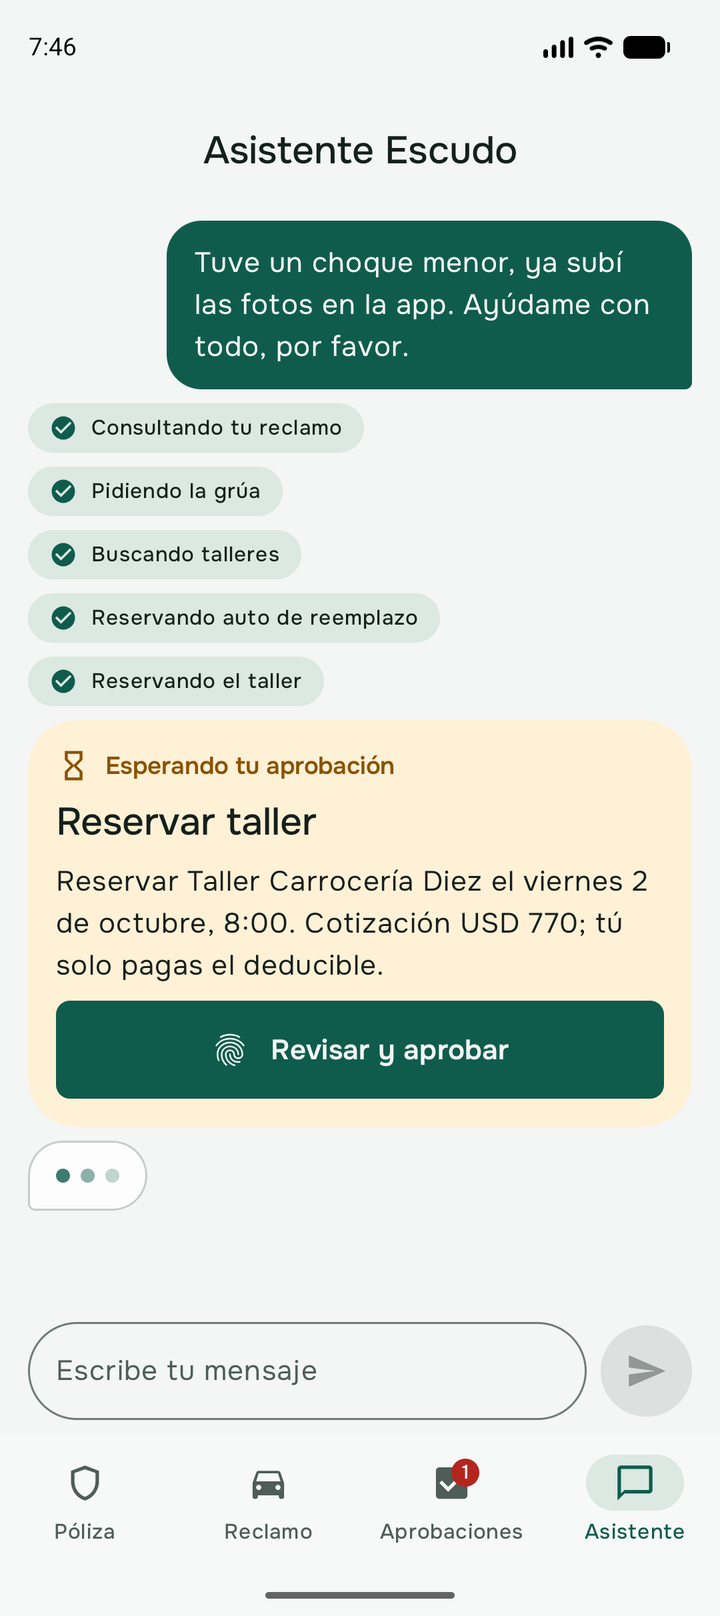
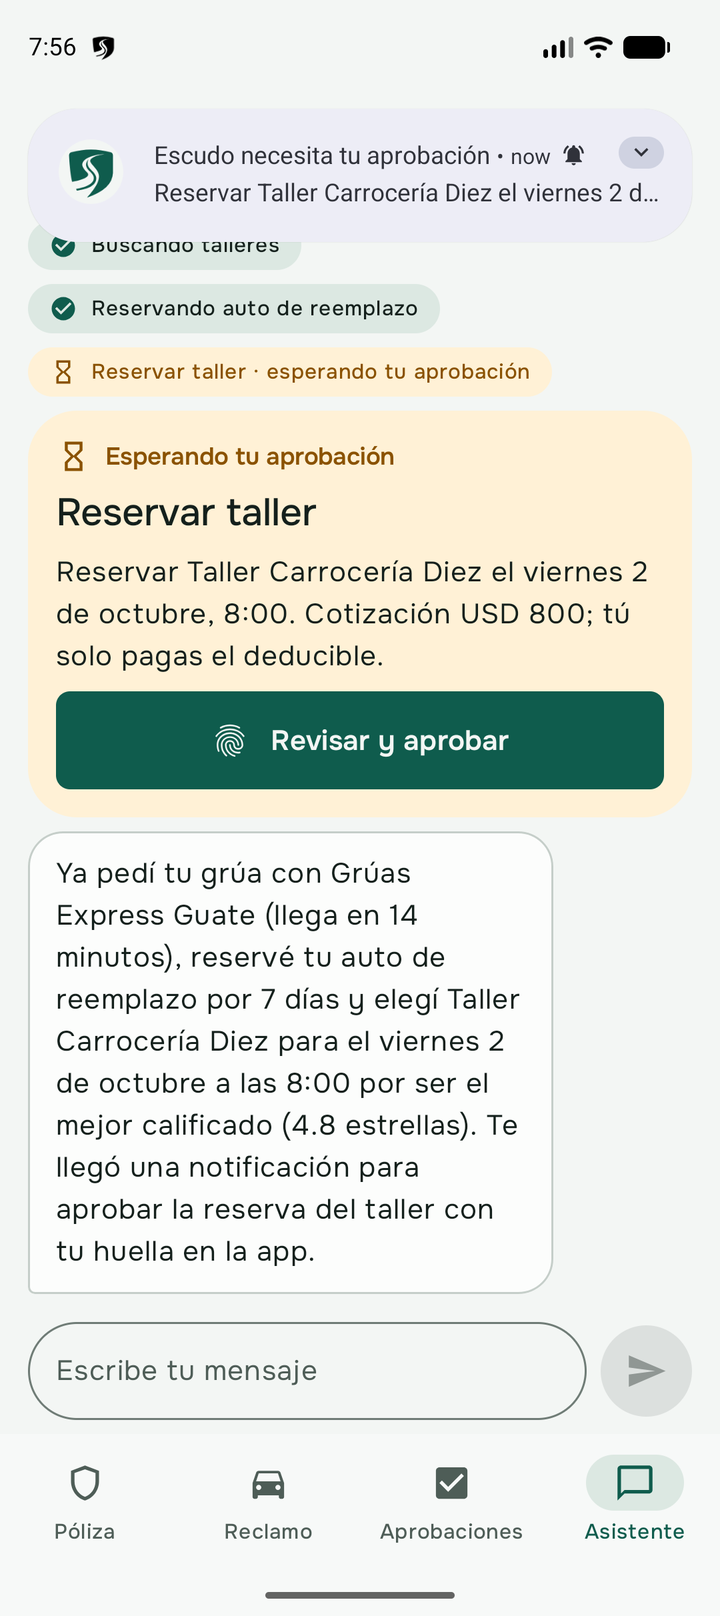
android: chat approval pause is honest — paused tool chip waits in amber until the approved retry succeeds; no typing dots while waiting

diff --git a/android/app/src/main/kotlin/app/escudo/android/ui/assistant/ChatState.kt b/android/app/src/main/kotlin/app/escudo/android/ui/assistant/ChatState.kt
@@ -11,8 +11,14 @@ sealed interface ChatItem {
   /** [streaming] while deltas arrive; the final frame replaces the text. */
   data class Assistant(override val key: String, val text: String, val streaming: Boolean) : ChatItem
 
-  /** Inline chip: what the assistant is doing ("Buscando talleres…"); [done] once the tool answered. */
-  data class Tool(override val key: String, val tool: String, val done: Boolean) : ChatItem
+  /**
+   * Inline chip: what the assistant is doing ("Buscando talleres…"). A gated tool that answered
+   * `pending_approval` did NOT happen: it stays [Status.WAITING] until the approved retry succeeds.
+   */
+  data class Tool(override val key: String, val tool: String, val status: Status) : ChatItem {
+    enum class Status { RUNNING, WAITING, DONE, NOT_DONE }
+    val active: Boolean get() = status == Status.RUNNING || status == Status.WAITING
+  }
 
   /** Inline approval pause; [status] pending → approved/rejected when the customer decides. */
   data class Approval(
@@ -43,6 +49,10 @@ data class ChatState(
   val pendingApprovalId: String?
     get() = items.lastOrNull { it is ChatItem.Approval && it.status == ChatItem.Approval.Status.PENDING }
       ?.let { (it as ChatItem.Approval).approvalId }
+
+  /** Typing dots only while the agent is actually working, never while it waits for the human. */
+  val showTyping: Boolean
+    get() = thinking && pendingApprovalId == null && (items.lastOrNull() as? ChatItem.Assistant)?.streaming != true
 }
 
 /**
@@ -67,39 +77,52 @@ object ChatReducer {
     is ChatEvent.Text -> state.copy(items = state.items.withAssistantText(event, key), thinking = !event.final || state.thinking)
     // The server may repeat a tool_call for the same running tool (seen on the deployed backend):
     // one chip per running tool, not per frame.
+    // A retry after approval reuses the waiting chip, which now runs again.
     is ChatEvent.ToolCall ->
-      if (state.items.any { it is ChatItem.Tool && it.tool == event.name && !it.done }) {
+      if (state.items.any { it is ChatItem.Tool && it.tool == event.name && it.status == ChatItem.Tool.Status.RUNNING }) {
         state.copy(thinking = true)
+      } else if (state.items.any { it is ChatItem.Tool && it.tool == event.name && it.status == ChatItem.Tool.Status.WAITING }) {
+        state.copy(items = state.items.updateTool(event.name, ChatItem.Tool.Status.WAITING, ChatItem.Tool.Status.RUNNING), thinking = true)
       } else {
-        state.copy(items = state.items + ChatItem.Tool(key, event.name, done = false), thinking = true)
+        state.copy(items = state.items + ChatItem.Tool(key, event.name, ChatItem.Tool.Status.RUNNING), thinking = true)
       }
+    // A gated tool's first answer is "pending_approval": approval_required (which follows it)
+    // turns that chip back into WAITING, so the result alone never claims the action happened.
     is ChatEvent.ToolResult -> state.copy(
-      items = state.items.map { if (it is ChatItem.Tool && it.tool == event.name && !it.done) it.copy(done = true) else it },
+      items = state.items.updateTool(event.name, ChatItem.Tool.Status.RUNNING, ChatItem.Tool.Status.DONE),
     )
     is ChatEvent.ApprovalRequired ->
       if (state.items.any { it is ChatItem.Approval && it.approvalId == event.approvalId }) {
         state
       } else {
-        state.copy(items = state.items + ChatItem.Approval(key, event.approvalId, event.tool, event.summary ?: event.reason, ChatItem.Approval.Status.PENDING))
+        val paused = state.items.updateTool(event.tool, ChatItem.Tool.Status.RUNNING, ChatItem.Tool.Status.WAITING)
+          .updateTool(event.tool, ChatItem.Tool.Status.DONE, ChatItem.Tool.Status.WAITING, onlyLast = true)
+        state.copy(items = paused + ChatItem.Approval(key, event.approvalId, event.tool, event.summary ?: event.reason, ChatItem.Approval.Status.PENDING))
       }
-    is ChatEvent.ApprovalResolved -> state.copy(
-      items = state.items.map {
+    is ChatEvent.ApprovalResolved -> {
+      val rejected = event.status == "rejected"
+      val items = state.items.map {
         if (it is ChatItem.Approval && it.approvalId == event.approvalId) {
-          it.copy(status = if (event.status == "rejected") ChatItem.Approval.Status.REJECTED else ChatItem.Approval.Status.APPROVED)
+          it.copy(status = if (rejected) ChatItem.Approval.Status.REJECTED else ChatItem.Approval.Status.APPROVED)
         } else {
           it
         }
-      },
-      // The server runs the next assistant turn by itself.
-      thinking = true,
-    )
+      }
+      // Rejected: the action will not happen. Approved: the chip waits for the retry to succeed.
+      val tool = event.tool ?: (state.items.firstOrNull { it is ChatItem.Approval && it.approvalId == event.approvalId } as? ChatItem.Approval)?.tool
+      state.copy(
+        items = if (rejected && tool != null) items.updateTool(tool, ChatItem.Tool.Status.WAITING, ChatItem.Tool.Status.NOT_DONE) else items,
+        // The server runs the next assistant turn by itself.
+        thinking = true,
+      )
+    }
     // A finished turn has no running tools or streaming text left.
     ChatEvent.TurnComplete -> state.copy(
       thinking = false,
       items = state.items.map {
         when {
           it is ChatItem.Assistant && it.streaming -> it.copy(streaming = false)
-          it is ChatItem.Tool && !it.done -> it.copy(done = true)
+          it is ChatItem.Tool && it.status == ChatItem.Tool.Status.RUNNING -> it.copy(status = ChatItem.Tool.Status.DONE)
           else -> it
         }
       },
@@ -114,6 +137,13 @@ object ChatReducer {
       },
     )
     is ChatEvent.Disconnected -> state.copy(connection = ChatState.Connection.DISCONNECTED, thinking = false)
+  }
+
+  private fun List<ChatItem>.updateTool(tool: String, from: ChatItem.Tool.Status, to: ChatItem.Tool.Status, onlyLast: Boolean = false): List<ChatItem> {
+    val target = if (onlyLast) indexOfLast { it is ChatItem.Tool && it.tool == tool && it.status == from } else -1
+    return mapIndexed { i, it ->
+      if (it is ChatItem.Tool && it.tool == tool && it.status == from && (!onlyLast || i == target)) it.copy(status = to) else it
+    }
   }
 
   /** Deltas extend the streaming reply; the final frame replaces it (or adds a new reply). */

diff --git a/android/app/src/main/kotlin/app/escudo/android/ui/assistant/AssistantScreen.kt b/android/app/src/main/kotlin/app/escudo/android/ui/assistant/AssistantScreen.kt
@@ -29,6 +29,7 @@ import androidx.compose.foundation.text.KeyboardActions
 import androidx.compose.foundation.text.KeyboardOptions
 import androidx.compose.material.icons.Icons
 import androidx.compose.material.icons.automirrored.filled.Send
+import androidx.compose.material.icons.filled.Close
 import androidx.compose.material3.CircularProgressIndicator
 import androidx.compose.material3.FilledIconButton
 import androidx.compose.material3.Icon
@@ -180,8 +181,8 @@ fun AssistantScreen(
 
   // Debug builds: a message from the scenario script (intent extra) is sent as if typed.
   LaunchedEffect(debugMessage) { debugMessage?.let { vm.send(it); onDebugMessageConsumed() } }
-  LaunchedEffect(state.items.size, (state.items.lastOrNull() as? ChatItem.Assistant)?.text?.length, state.thinking) {
-    val count = state.items.size + if (state.thinking) 1 else 0
+  LaunchedEffect(state.items.size, (state.items.lastOrNull() as? ChatItem.Assistant)?.text?.length, state.showTyping) {
+    val count = state.items.size + if (state.showTyping) 1 else 0
     if (count > 0) listState.animateScrollToItem(count - 1)
   }
 
@@ -212,7 +213,7 @@ fun AssistantScreen(
               is ChatItem.Approval -> ApprovalCard(item, onReview = { onOpenApprovals(item.approvalId) })
             }
           }
-          if (state.thinking && (state.items.lastOrNull() as? ChatItem.Assistant)?.streaming != true) {
+          if (state.showTyping) {
             item(key = "typing") { TypingIndicator() }
           }
         }
@@ -306,20 +307,36 @@ private fun Bubble(text: String, fromUser: Boolean, streaming: Boolean = false) 
 @Composable
 private fun ToolChip(item: ChatItem.Tool) {
   val colors = MaterialTheme.colorScheme
+  val extra = EscudoTheme.extra
+  val waiting = item.status == ChatItem.Tool.Status.WAITING
   Row(Modifier.fillMaxWidth(), horizontalArrangement = Arrangement.Start) {
-    Surface(color = colors.secondaryContainer, contentColor = colors.onSecondaryContainer, shape = MaterialTheme.shapes.extraLarge) {
+    Surface(
+      color = when (item.status) {
+        ChatItem.Tool.Status.WAITING -> extra.pauseContainer
+        ChatItem.Tool.Status.NOT_DONE -> colors.surfaceContainerHigh
+        else -> colors.secondaryContainer
+      },
+      contentColor = if (waiting) extra.onPauseContainer else colors.onSecondaryContainer,
+      shape = MaterialTheme.shapes.extraLarge,
+    ) {
       Row(
         Modifier.padding(horizontal = Spacing.sm, vertical = Spacing.xs + 2.dp),
         verticalAlignment = Alignment.CenterVertically,
         horizontalArrangement = Arrangement.spacedBy(Spacing.s),
       ) {
-        if (item.done) {
-          Icon(painterResource(R.drawable.ic_check_circle), contentDescription = null, tint = colors.primary, modifier = Modifier.size(16.dp))
-        } else {
-          CircularProgressIndicator(Modifier.size(14.dp), strokeWidth = 2.dp)
+        when (item.status) {
+          ChatItem.Tool.Status.RUNNING -> CircularProgressIndicator(Modifier.size(14.dp), strokeWidth = 2.dp)
+          ChatItem.Tool.Status.WAITING -> Icon(painterResource(R.drawable.ic_hourglass), contentDescription = null, tint = extra.pause, modifier = Modifier.size(16.dp))
+          ChatItem.Tool.Status.DONE -> Icon(painterResource(R.drawable.ic_check_circle), contentDescription = null, tint = colors.primary, modifier = Modifier.size(16.dp))
+          ChatItem.Tool.Status.NOT_DONE -> Icon(Icons.Filled.Close, contentDescription = null, tint = colors.onSurfaceVariant, modifier = Modifier.size(16.dp))
         }
         Text(
-          toolActivity(item.tool) + if (item.done) "" else "…",
+          when (item.status) {
+            ChatItem.Tool.Status.RUNNING -> toolActivity(item.tool) + "…"
+            ChatItem.Tool.Status.WAITING -> stringResource(R.string.chat_tool_waiting, toolLabel(item.tool))
+            ChatItem.Tool.Status.DONE -> toolActivity(item.tool)
+            ChatItem.Tool.Status.NOT_DONE -> stringResource(R.string.chat_tool_not_done, toolLabel(item.tool))
+          },
           style = MaterialTheme.typography.labelMedium,
         )
       }

diff --git a/android/app/src/test/kotlin/app/escudo/android/ui/ChatStateTest.kt b/android/app/src/test/kotlin/app/escudo/android/ui/ChatStateTest.kt
@@ -48,10 +48,10 @@ class ChatStateTest {
   @Test
   fun `tool calls become chips that complete with their result`() {
     val s = ChatReducer.userSent(ready, "taller", "u1").on(ChatEvent.ToolCall("list_repair_options"))
-    assertEquals(ChatItem.Tool((s.items.last() as ChatItem.Tool).key, "list_repair_options", done = false), s.items.last())
+    assertEquals(ChatItem.Tool((s.items.last() as ChatItem.Tool).key, "list_repair_options", ChatItem.Tool.Status.RUNNING), s.items.last())
     assertTrue(s.thinking)
     val done = s.on(ChatEvent.ToolResult("list_repair_options"))
-    assertTrue((done.items.last() as ChatItem.Tool).done)
+    assertEquals(ChatItem.Tool.Status.DONE, (done.items.last() as ChatItem.Tool).status)
   }
 
   @Test
@@ -85,7 +85,52 @@ class ChatStateTest {
       ChatEvent.ToolResult("request_tow"),
     )
     assertEquals(listOf("request_tow", "list_repair_options"), s.items.map { (it as ChatItem.Tool).tool })
-    assertEquals(listOf(true, false), s.items.map { (it as ChatItem.Tool).done })
-    assertTrue(s.on(ChatEvent.TurnComplete).items.all { (it as ChatItem.Tool).done })
+    assertEquals(listOf(ChatItem.Tool.Status.DONE, ChatItem.Tool.Status.RUNNING), s.items.map { (it as ChatItem.Tool).status })
+    assertTrue(s.on(ChatEvent.TurnComplete).items.all { (it as ChatItem.Tool).status == ChatItem.Tool.Status.DONE })
+  }
+
+  private fun ChatState.tool(name: String) = items.filterIsInstance<ChatItem.Tool>().single { it.tool == name }.status
+
+  @Test
+  fun `a paused tool waits for the human and only completes after the approved retry`() {
+    val required = ChatEvent.ApprovalRequired("apr_1", "select_repair_shop", "Reservar", null, "sha256:a")
+    val paused = ChatReducer.userSent(ready, "agenda el taller", "u1").on(
+      ChatEvent.ToolCall("select_repair_shop"), ChatEvent.ToolCall("select_repair_shop"),
+      ChatEvent.ToolResult("select_repair_shop"), required,
+    )
+    assertEquals(ChatItem.Tool.Status.WAITING, paused.tool("select_repair_shop"))
+    // The agent is stopped by design: no typing dots, even while its explanation streams.
+    assertFalse(paused.showTyping)
+    val explained = paused.on(ChatEvent.Text("Te envié una solicitud", final = true), ChatEvent.TurnComplete)
+    assertEquals(ChatItem.Tool.Status.WAITING, explained.tool("select_repair_shop"))
+
+    val approved = explained.on(ChatEvent.ApprovalResolved("apr_1", "select_repair_shop", "approved"))
+    assertEquals(ChatItem.Tool.Status.WAITING, approved.tool("select_repair_shop"))
+    assertTrue(approved.showTyping) // now the agent really works again
+    val retrying = approved.on(ChatEvent.ToolCall("select_repair_shop"))
+    assertEquals(ChatItem.Tool.Status.RUNNING, retrying.tool("select_repair_shop"))
+    assertEquals(ChatItem.Tool.Status.DONE, retrying.on(ChatEvent.ToolResult("select_repair_shop")).tool("select_repair_shop"))
+  }
+
+  @Test
+  fun `a rejected pause marks the action as not done`() {
+    val s = ready.on(
+      ChatEvent.ToolCall("sign_claim"), ChatEvent.ToolResult("sign_claim"),
+      ChatEvent.ApprovalRequired("apr_2", "sign_claim", "Firmar", null, "h"),
+      ChatEvent.ApprovalResolved("apr_2", "sign_claim", "rejected"),
+    )
+    assertEquals(ChatItem.Tool.Status.NOT_DONE, s.tool("sign_claim"))
+  }
+
+  @Test
+  fun `the retry may start before approval_resolved arrives`() {
+    val s = ready.on(
+      ChatEvent.ToolCall("accept_deductible"), ChatEvent.ToolResult("accept_deductible"),
+      ChatEvent.ApprovalRequired("apr_3", "accept_deductible", "Pagar 500 USD", null, "h"), ChatEvent.TurnComplete,
+      ChatEvent.ToolCall("accept_deductible"), ChatEvent.ToolResult("accept_deductible"),
+      ChatEvent.ApprovalResolved("apr_3", "accept_deductible", "approved"),
+    )
+    assertEquals(ChatItem.Tool.Status.DONE, s.tool("accept_deductible"))
+    assertEquals(ChatItem.Approval.Status.APPROVED, s.items.filterIsInstance<ChatItem.Approval>().single().status)
   }
 }

diff --git a/android/README.md b/android/README.md
@@ -83,7 +83,9 @@ hace la notificación. En el emulador, PIN con `adb shell locksettings set-pin 1
 El asistente es un chat escrito sobre el mismo agente y las mismas herramientas MCP
 (`wss://…/assistant/chat`, ver `contracts/tools.md`). La app muestra las respuestas en streaming,
 chips en línea con lo que el agente está haciendo («Buscando talleres…») y una tarjeta ámbar en línea
-cuando el agente se detiene por una aprobación; «Revisar y aprobar» abre la aprobación con huella y, al
+cuando el agente se detiene por una aprobación (el chip de esa acción queda en ámbar, «esperando tu
+aprobación», sin puntos de «escribiendo»: el agente está detenido a propósito, y solo pasa a ✓ cuando
+el reintento aprobado tiene éxito); «Revisar y aprobar» abre la aprobación con huella y, al
 aprobar, la conversación continúa sola (`approval_resolved`). Si la conexión se cae (Cloud Run corta
 los WebSockets a los 60 min), la app se reconecta con el mismo `session_id` y la conversación sigue.
 
@@ -92,7 +94,7 @@ los WebSockets a los 60 min), la app se reconecta con el mismo `session_id` y la
   `adb shell am start -n app.escudo.android/.MainActivity --es chat_message '…'`, el mismo camino que el
   teclado) y aprueba cada pausa con la huella virtual (`adb emu finger touch 1`) hasta el reclamo
   firmado. Espera marcadores `EscudoScenario` de logcat, no tiempos fijos. Antes: `make reset CLOUD=1`
-  en la raíz. Medido el 2026-10-01: **146 s** (38 s son automatización de la UI del reporte),
+  en la raíz. Medido el 2026-10-01: **106 s** (35 s son automatización de la UI del reporte),
   3 aprobaciones firmadas con huella.
 - Preparar la huella del emulador (una vez): PIN `adb shell locksettings set-pin 1234`, luego
   `adb shell am start -a android.settings.FINGERPRINT_ENROLL` y tocar el sensor con
